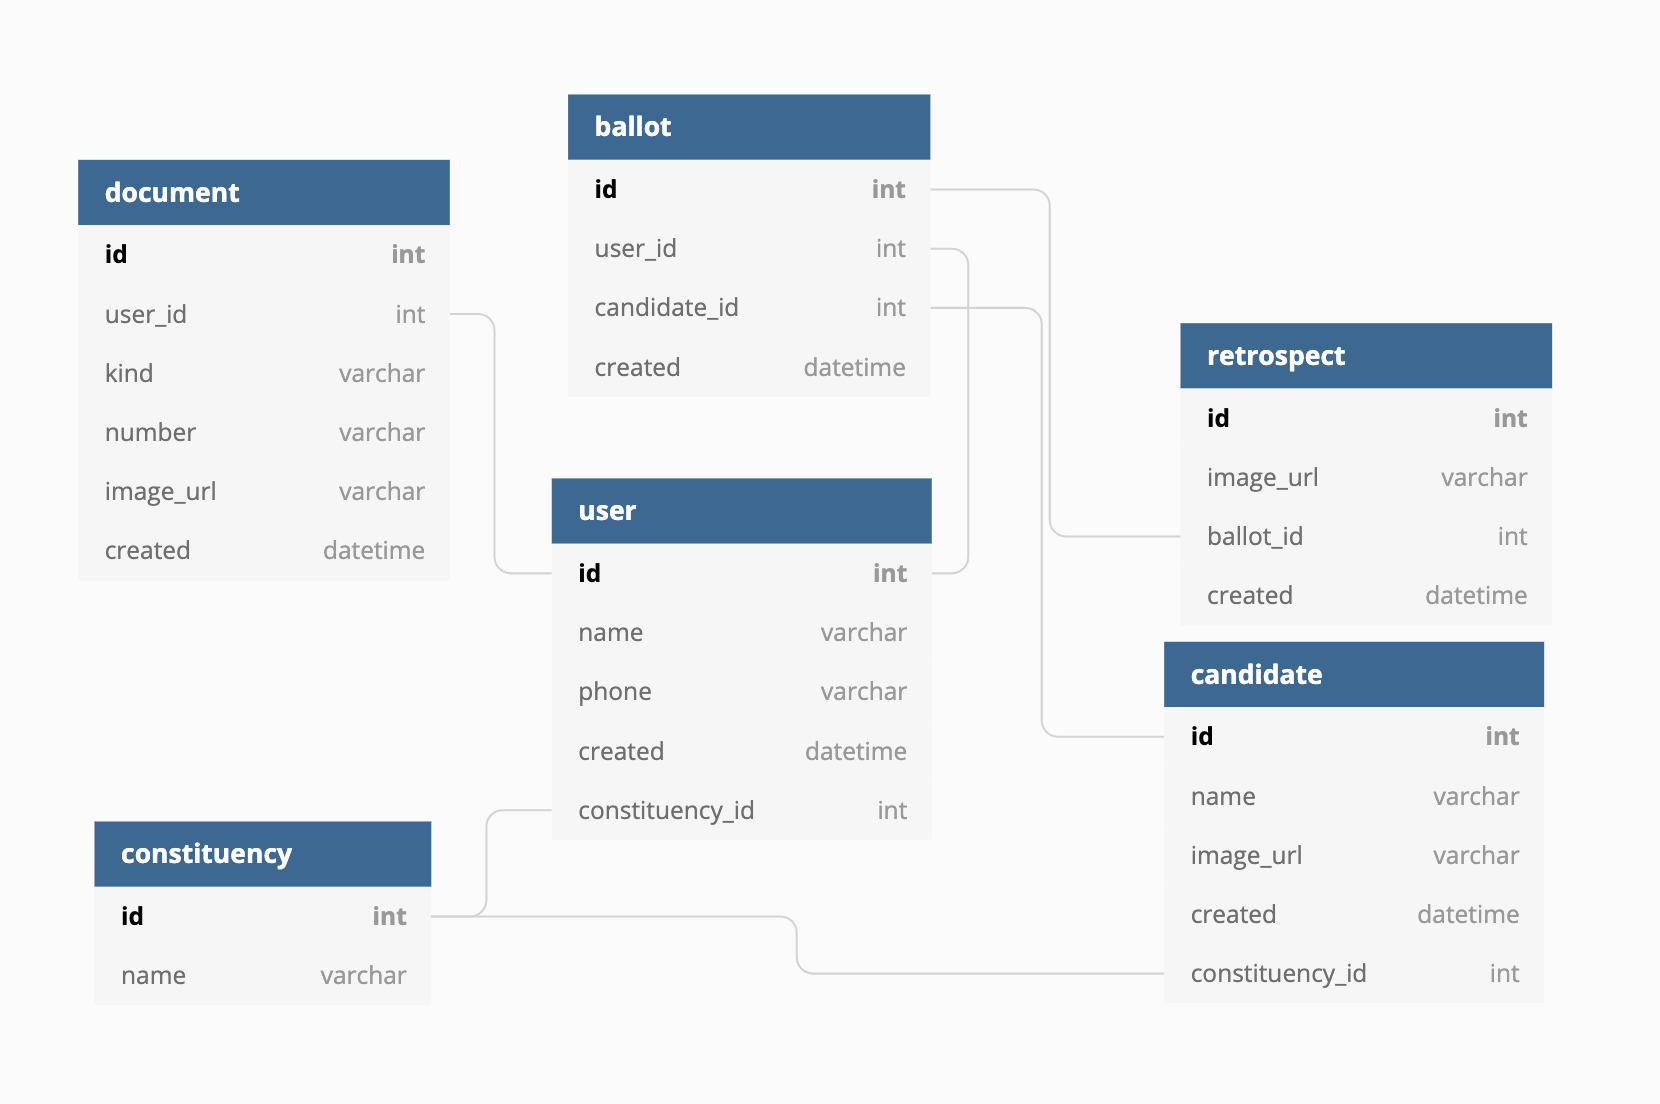
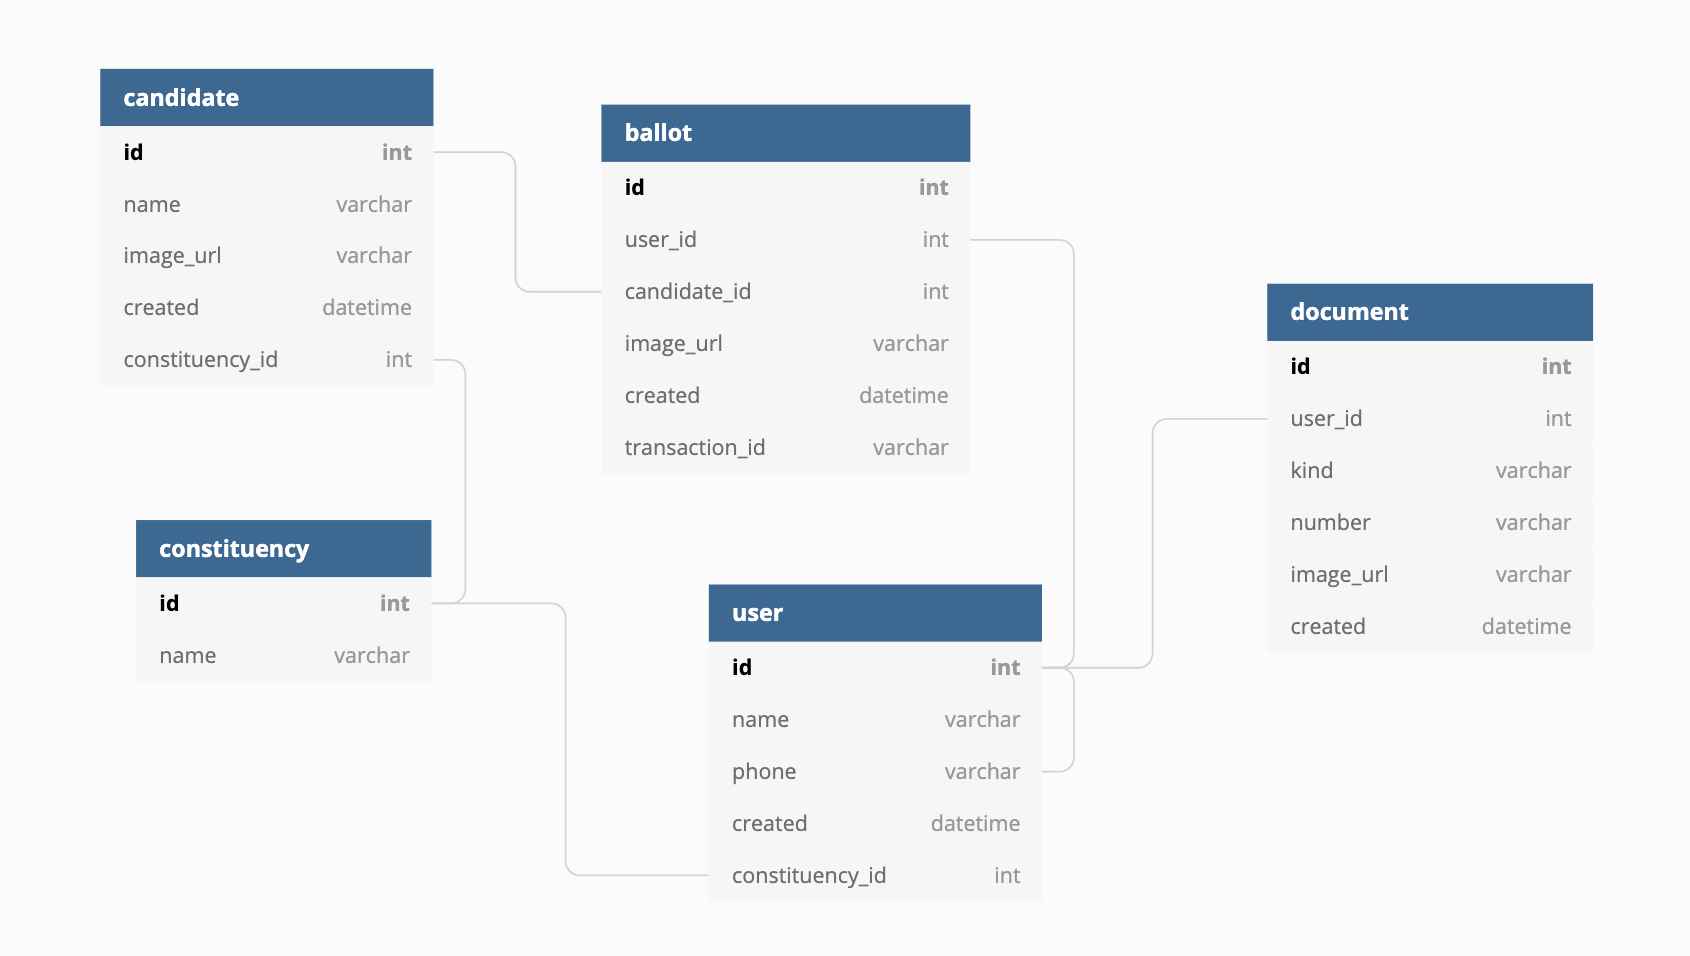
trivial updates

diff --git a/backend/ballot/main.py b/backend/ballot/main.py
@@ -13,7 +13,9 @@ from flask import Flask, request
 from models import db, Ballot
 import json
 import traceback
+import requests
 
+blockchain_service_url = "http://127.0.0.1:5006/blockchain/vote"
 
 
 app = Flask(__name__)
@@ -27,7 +29,7 @@ with app.app_context():
 
 
 @app.route('/ballot', methods=["POST"])
-def create_user():
+def vote():
     '''
     create a new poll.
     callers: all users
@@ -35,6 +37,9 @@ def create_user():
     data = request.form.to_dict()
     ballot = Ballot()
     try:
+        payload = {'candidate_id': data["candidate_id"]}
+        response = requests.request("POST", blockchain_service_url, data = payload)
+        data["transaction_id"] = json.loads(response.text)["receipt"]
         ballot.deserialize(json=data)
         ballot.save()
         return json.dumps(ballot.serialize()),200
@@ -44,10 +49,10 @@ def create_user():
 
 
 @app.route('/ballot/<int:id>', methods=["GET"])
-def get_user(id):
+def get_ballot_object(id):
     '''
     get ballot object by id
-    callers: all users
+    callers: system
     '''
     ballot = Ballot.query.filter(Ballot.id == id).first()
     if ballot:
@@ -72,4 +77,4 @@ def server_error(e):
 
 
 if __name__ =="__main__":
-    app.run(debug=True,port=5003)
+    app.run(debug=True,host="0.0.0.0",port=5003)

diff --git a/backend/ballot/models.py b/backend/ballot/models.py
@@ -68,6 +68,10 @@ class Candidate(db.Model):
     created = db.Column(db.DateTime, default=datetime.datetime.utcnow)
     
     
+    def get_str_id(self):
+        return str(self.id)
+
+    
     def serialize(self):
         serialized = {
             'id' : self.id,

diff --git a/backend/blockchain/main.py b/backend/blockchain/main.py
@@ -1,9 +1,11 @@
 import json
 from flask import Flask, request, logging
 from web3 import Web3
+#run 
 from solcx import compile_files
 from models import db, Candidate
 
+solcx.install_solc("0.6.4")
 
 
 w3 = Web3(Web3.HTTPProvider("http://127.0.0.1:8545"))
